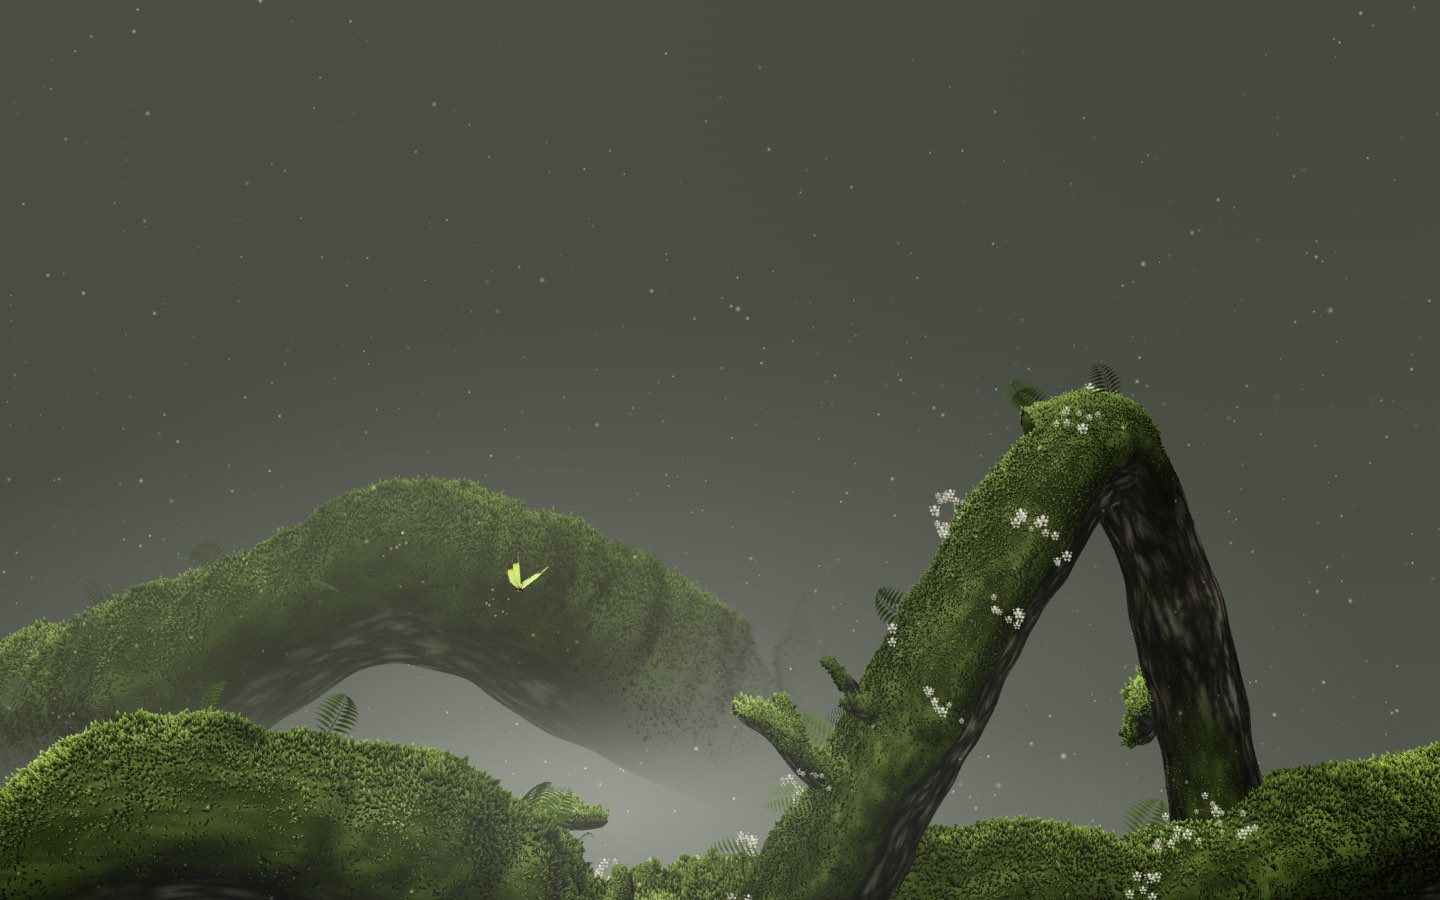
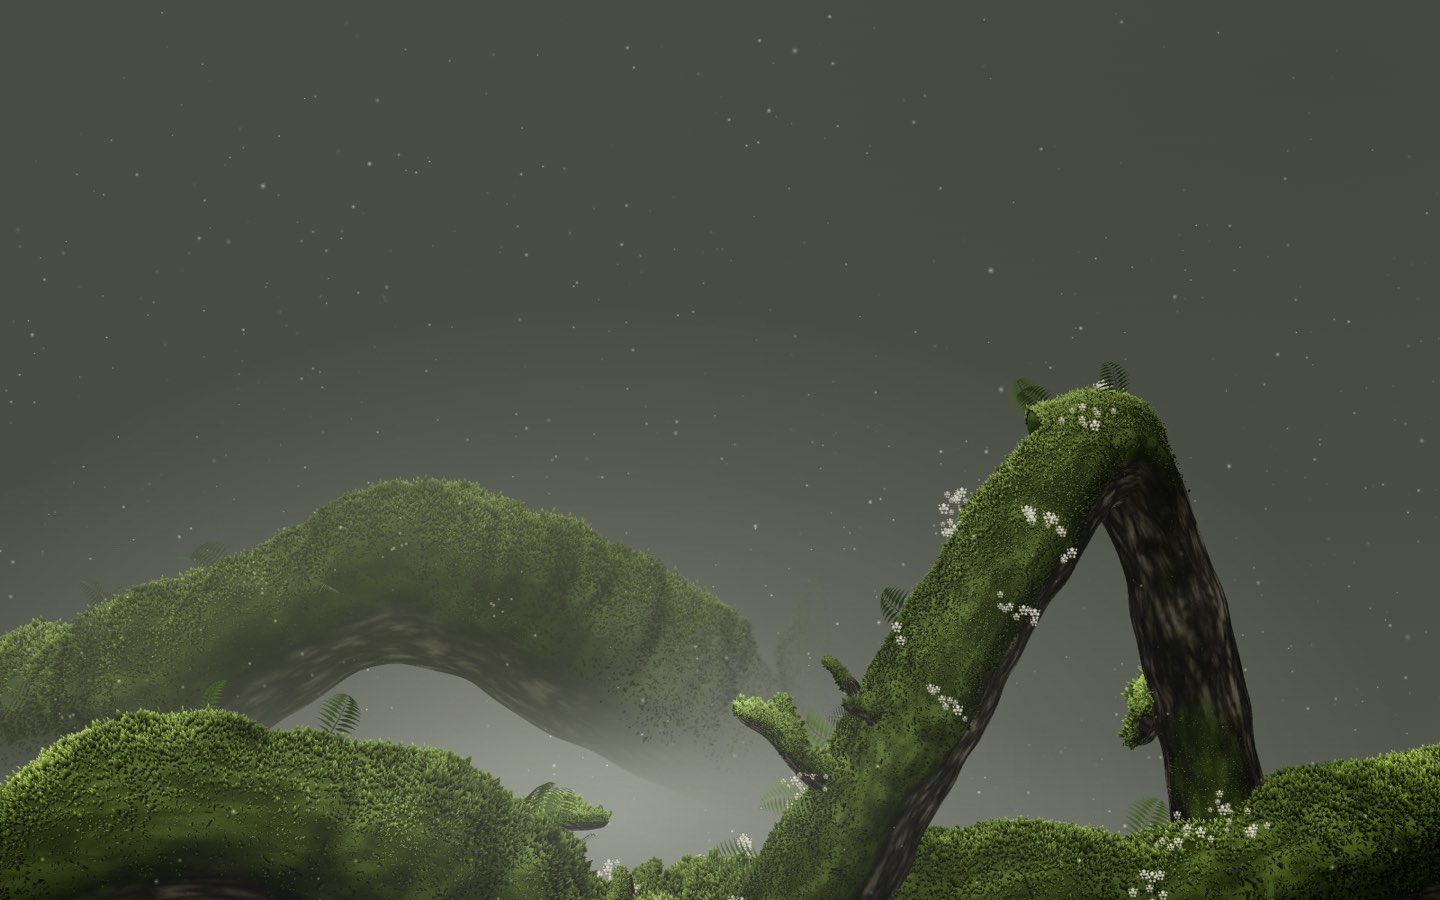
Hide the butterfly in the Sylva scene
The page builds its butterfly inside its own closure and exposes no
scene API, so SylvaWorld hooks the one reachable seam: THREE is a global
from the vendored three.min.js and every object passes through
Object3D.prototype.updateMatrixWorld each rendered frame. The group is
recognised as the only Group at renderOrder 5 whose children carry the
wing shader (uHind uniform) and kept invisible for the whole scene
lifecycle — cruise, approach and landing — while its update loop runs
untouched. The packaged HTML stays byte-exact; the poster is recaptured.

diff --git a/components/worlds/SylvaWorld.tsx b/components/worlds/SylvaWorld.tsx
@@ -40,6 +40,49 @@ html[data-threeui-presentation="background"] body {
 }
 `;
 
+type ThreeLike = {
+  Object3D?: { prototype: { updateMatrixWorld: (this: SceneObject, force?: boolean) => void } };
+};
+type SceneObject = {
+  isGroup?: boolean;
+  renderOrder: number;
+  visible: boolean;
+  children: Array<{ material?: { uniforms?: Record<string, unknown> } }>;
+};
+
+/**
+ * The page builds a butterfly (`buildButterfly`) inside its own closure and
+ * exposes no scene API, so it is hidden through the one seam that is
+ * reachable: `THREE` is a global from the vendored three.min.js, and every
+ * object in the scene passes through `Object3D.prototype.updateMatrixWorld`
+ * on every rendered frame. The butterfly group is the only Group at
+ * renderOrder 5 whose children carry the wing shader (`uHind` uniform); once
+ * seen it is kept invisible for the rest of the scene's life — cruise,
+ * approach and landing included — while its update loop runs untouched.
+ */
+function hideButterfly(frameWindow: Window): boolean {
+  const three = (frameWindow as Window & { THREE?: ThreeLike }).THREE;
+  const proto = three?.Object3D?.prototype;
+  if (!proto) return false;
+  const original = proto.updateMatrixWorld;
+  const hidden = new WeakSet<SceneObject>();
+  let found = false;
+  const isButterfly = (object: SceneObject) =>
+    Boolean(object.isGroup) &&
+    object.renderOrder === 5 &&
+    object.children.some((child) => Boolean(child.material?.uniforms?.uHind));
+  proto.updateMatrixWorld = function patched(this: SceneObject, force?: boolean) {
+    if (hidden.has(this) || (!found && isButterfly(this))) {
+      found = true;
+      hidden.add(this);
+      this.visible = false;
+      (frameWindow as Window & { __sylvaButterflyHidden?: boolean }).__sylvaButterflyHidden = true;
+    }
+    return original.call(this, force);
+  };
+  return true;
+}
+
 /**
  * The living-forest world behind the work sections: ThreeUI's Sylva Hero
  * (living-green) in background presentation, so only its WebGL scene
@@ -52,6 +95,7 @@ export default function SylvaWorld({ children }: { children: React.ReactNode }) 
       className="world-sylva"
       poster="/posters/sylva.jpg"
       frameStyles={SYLVA_BACKDROP_CSS}
+      onFrameReady={hideButterfly}
       expect={{ canvas: SYLVA_BACKGROUND_CANVAS, pathname: "/landing-pages/inner-green-3d.html", titleIncludes: "Sylva" }}
       scene={Scene}
     >
